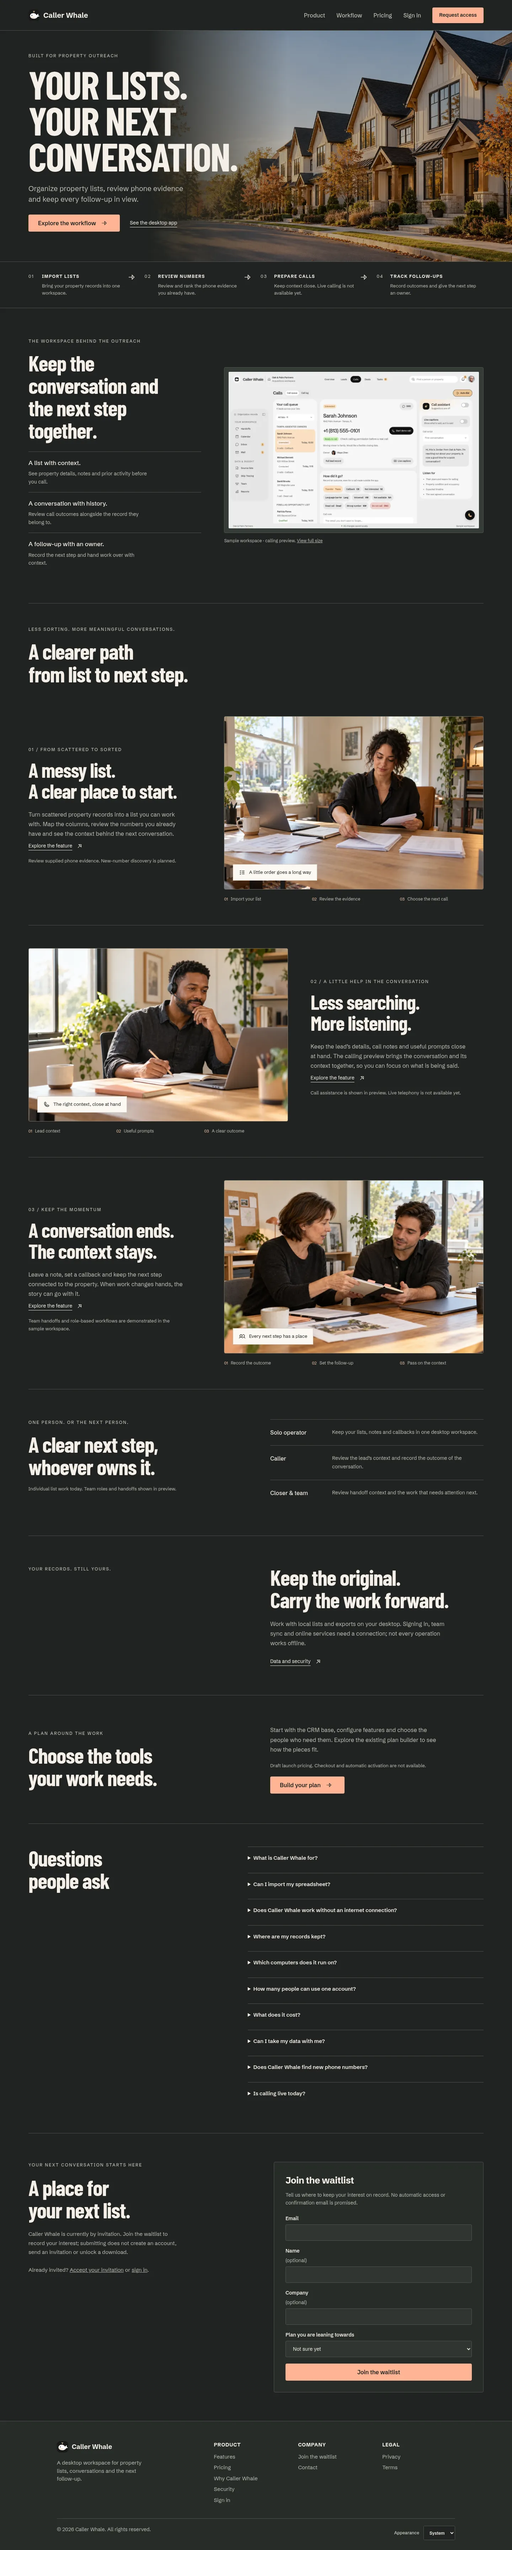
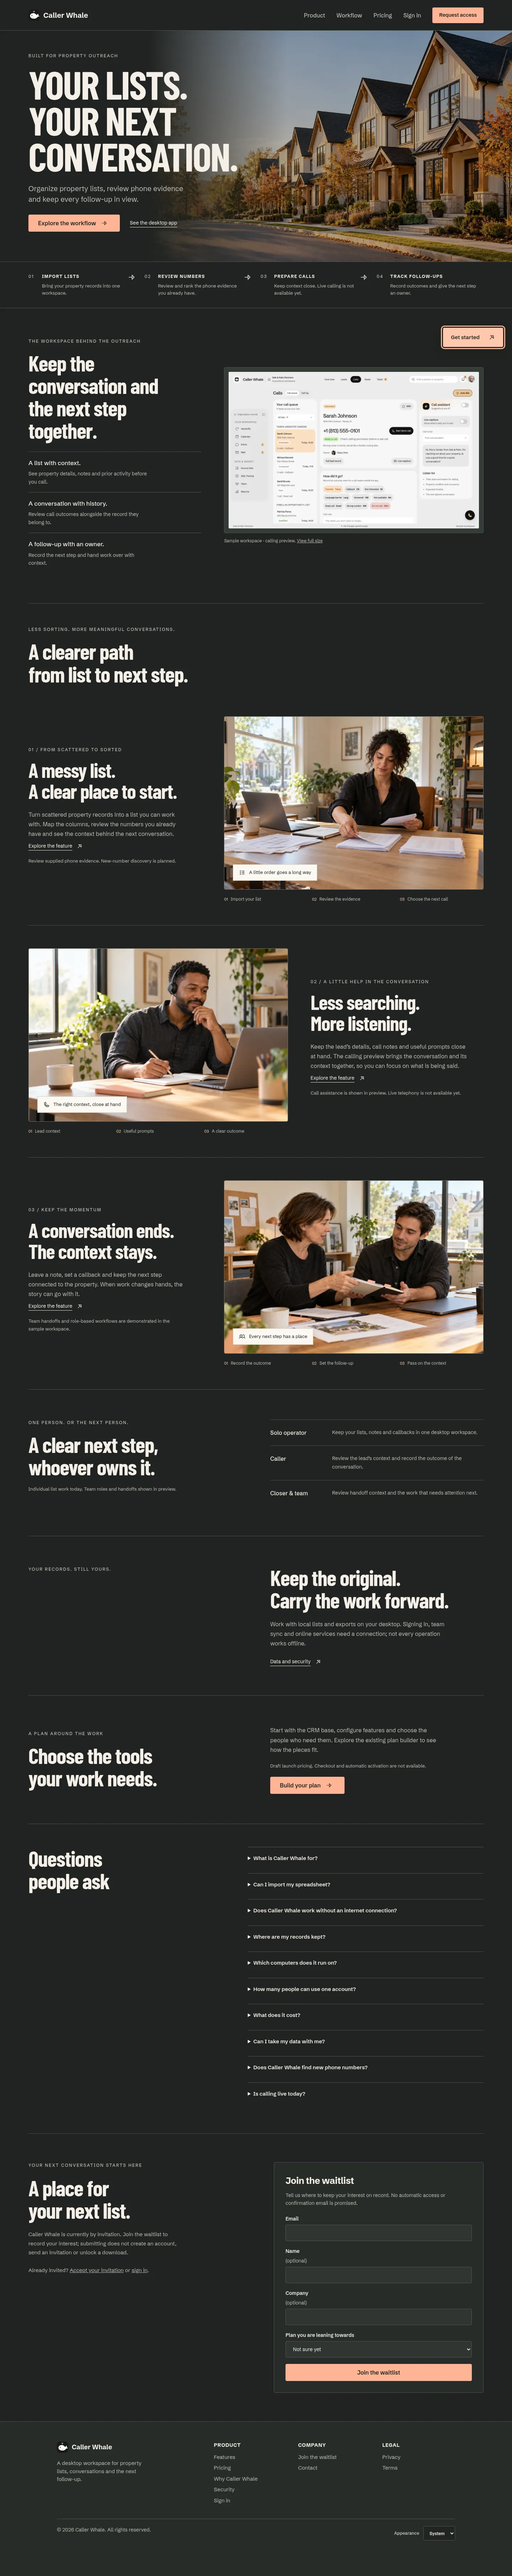
Add persistent get-started account and download entry

diff --git a/Caller Whale CRM/landing/web/src/components.jsx b/Caller Whale CRM/landing/web/src/components.jsx
@@ -84,7 +84,7 @@ export function Shot({ file, alt, eager, tilt }) {
 }
 
 /**
- * The site's header. Signed out: Sign in and Sign up. Signed in: Dashboard for people Caller Whale invited, Admin for its staff,
+ * The site's header. Signed out: Sign in and Request access. Signed in: Dashboard for authorized accounts,
  * and Sign out. What a person may open is the server's decision (/account); the header only shows it.
  */
 export function Header({ route }) {
@@ -190,6 +190,55 @@ export function Header({ route }) {
       </nav>
     </header>
   );
+}
+
+/** Persistent marketing entry point; entitlement is still enforced by the server. */
+export function GetStarted({ route }) {
+  const dialog = useRef(null);
+  const trigger = useRef(null);
+  const session = useSession();
+  const signedIn = session.status === "signed_in";
+  useEffect(() => { dialog.current?.close(); }, [route]);
+  const previousOverflow = useRef(null);
+  const restoreScroll = () => {
+    if (previousOverflow.current !== null) {
+      document.body.style.overflow = previousOverflow.current;
+      previousOverflow.current = null;
+    }
+  };
+  useEffect(() => () => restoreScroll(), []);
+  const open = () => {
+    previousOverflow.current = document.body.style.overflow;
+    document.body.style.overflow = "hidden";
+    dialog.current.showModal();
+  };
+  const close = () => dialog.current.close();
+  const containTab = event => {
+    if (event.key !== "Tab") return;
+    const items = dialog.current.querySelectorAll('button:not([disabled]), a[href]');
+    const first = items[0];
+    const last = items[items.length - 1];
+    if (event.shiftKey && document.activeElement === first) { event.preventDefault(); last.focus(); }
+    else if (!event.shiftKey && document.activeElement === last) { event.preventDefault(); first.focus(); }
+  };
+  const downloadPath = signedIn ? "/dashboard#desktop-download" : "/signin?next=%2Fdashboard";
+  return <>
+    <button ref={trigger} type="button" className="get-started-float" onClick={open} aria-haspopup="dialog" aria-controls="get-started-dialog">Get started <Icon name="ArrowUpRight" size={20} /></button>
+    <dialog ref={dialog} id="get-started-dialog" className="entry-dialog" onKeyDown={containTab} onClose={() => { restoreScroll(); trigger.current?.focus(); }} aria-labelledby="entry-title" aria-describedby="entry-description" onClick={event => { if (event.target === event.currentTarget) close(); }}>
+      <div className="entry-content">
+        <button type="button" className="entry-close" onClick={close} aria-label="Close get started">Close</button>
+        <p className="studio-label">Your Caller Whale workspace</p>
+        <h2 id="entry-title">Your next step<br />starts here.</h2>
+        <p id="entry-description">Open your web dashboard or get the desktop app. Caller Whale is currently by invitation.</p>
+        <div className="entry-options">
+          <a className="entry-option" href={signedIn ? "/dashboard" : "/signin?next=%2Fdashboard"} onClick={close}><Icon name="Kanban" size={24} /><span><strong>{signedIn ? "Open web dashboard" : "Sign in"}</strong><span>{signedIn ? "Continue to your account and workspace." : "Already have an account? Continue to your dashboard."}</span></span><Icon name="ArrowRight" size={20} /></a>
+          {!signedIn && <a className="entry-option" href="/signup" onClick={close}><Icon name="Users" size={24} /><span><strong>Sign up</strong><span>Create your account with the email you were invited with.</span></span><Icon name="ArrowRight" size={20} /></a>}
+          <a className="entry-option" href={downloadPath} onClick={close}><Icon name="DeviceMobile" size={24} /><span><strong>Get the desktop app</strong><span>{signedIn ? "Find the Windows download in your dashboard." : "Sign in first. Invited accounts can download from their dashboard."}</span></span><Icon name="ArrowRight" size={20} /></a>
+        </div>
+        <p className="entry-waitlist">No invitation yet? <a href="/#request-access" onClick={close}>Join the waitlist</a>.</p>
+      </div>
+    </dialog>
+  </>;
 }
 
 export function Footer() {

diff --git a/Caller Whale CRM/landing/web/src/studio.css b/Caller Whale CRM/landing/web/src/studio.css
@@ -800,3 +800,20 @@ body {
     max-width: calc(100% - 24px);
   }
 }
+.get-started-float { position: fixed; bottom: max(24px, env(safe-area-inset-bottom)); right: max(24px, env(safe-area-inset-right)); z-index: 8; display: inline-flex; align-items: center; gap: 24px; min-height: 56px; padding: 16px 22px; border: 1px solid #202321; border-radius: 5px; background: var(--accent); color: #202321; box-shadow: 0 8px 28px #0002; font: inherit; font-size: 15px; font-weight: 600; cursor: pointer; }
+.get-started-float:hover { background: #ffc8ae; }
+.entry-dialog { width: min(560px, calc(100vw - 32px)); max-height: calc(100dvh - 32px); overflow: auto; padding: 0; border: 1px solid var(--line); border-radius: 8px; background: var(--page); color: var(--ink); box-shadow: 0 24px 100px #0004; }
+.entry-dialog::backdrop { background: #151815a6; }
+.entry-content { position: relative; padding: 40px; }
+.entry-close { display: block; margin-left: auto; margin-bottom: 24px; min-height: 40px; padding: 8px 12px; border: 1px solid var(--line); border-radius: 4px; background: transparent; color: var(--ink); font: inherit; font-size: 13px; cursor: pointer; }
+.entry-content h2 { font: 700 54px/1.02 "Barlow Condensed", sans-serif; letter-spacing: -.02em; margin: 18px 0; }
+.entry-content > p:not(.studio-label) { color: var(--muted); font-size: 14px; line-height: 1.7; }
+.entry-options { margin: 28px 0 20px; border-top: 1px solid var(--line); }
+.entry-option { display: grid; grid-template-columns: 24px 1fr 20px; gap: 16px; align-items: center; padding: 20px 0; border-bottom: 1px solid var(--line); text-decoration: none; }
+.entry-option:hover { background: var(--card); }
+.entry-option strong { display: block; font-size: 16px; font-weight: 600; margin-bottom: 5px; }
+.entry-option span span { display: block; color: var(--muted); font-size: 13px; line-height: 1.6; }
+.entry-waitlist a { text-underline-offset: 4px; }
+.foot { padding-bottom: 100px; }
+#desktop-download { scroll-margin-top: 110px; }
+@media(max-width:600px) { .get-started-float { bottom: max(16px, env(safe-area-inset-bottom)); right: 16px; min-height: 50px; padding: 12px 18px; gap: 16px; }.entry-content { padding: 24px; }.entry-content h2 { font-size: 46px; }.entry-option { gap: 12px; }.entry-close { margin-bottom: 20px; } }

diff --git a/Caller Whale CRM/landing/web/src/AccountPages.jsx b/Caller Whale CRM/landing/web/src/AccountPages.jsx
@@ -421,7 +421,7 @@ export function Dashboard() {
               <AdminMode account={account} signOut={session.signOut} />
               <Security />
               <div className="panel">
-                <h2>Desktop app</h2>
+                <h2 id="desktop-download">Desktop app</h2>
                 <DownloadButton release={account.release} />
               </div>
             </Shell>
@@ -470,7 +470,7 @@ export function Dashboard() {
             </div>
             <div className="split">
               <div className="panel">
-                <h2><DownloadSimple size={22} weight="duotone" aria-hidden="true" /> The desktop app</h2>
+                <h2 id="desktop-download"><DownloadSimple size={22} weight="duotone" aria-hidden="true" /> The desktop app</h2>
                 <DownloadButton release={account.release} />
               </div>
               <div className="panel">

diff --git a/Caller Whale CRM/landing/web/src/App.jsx b/Caller Whale CRM/landing/web/src/App.jsx
@@ -1,6 +1,6 @@
 import { useCallback, useEffect, useState } from "react";
 import { accountPages, pageMeta } from "./content.js";
-import { Footer, Header, InviteOnly, Waitlist } from "./components.jsx";
+import { Footer, GetStarted, Header, InviteOnly, Waitlist } from "./components.jsx";
 import { Compare, Contact, Features, Home, Legal, NotFound, Pricing, Security, legalPages } from "./pages.jsx";
 import { Dashboard, SignIn, SignUp, VerifyEmail } from "./AccountPages.jsx";
 import { SessionProvider } from "./session.jsx";
@@ -90,6 +90,7 @@ export function App({ path = typeof window === "undefined" ? "/" : window.locati
         {marketing && <Waitlist tier={choice.tier} plan={choice.plan} setTier={onPick} />}
       </main>
       <Footer />
+      {marketing && <GetStarted route={page} />}
     </SessionProvider>
   );
 }

diff --git a/Caller Whale CRM/landing/web/design-qa.md b/Caller Whale CRM/landing/web/design-qa.md
@@ -52,3 +52,9 @@ Build and pricing tests passed. Browser checks decoded all three illustration as
 Owner selected natural human problem-solving moments over 3D illustrations. Replaced all three benefit illustrations with generated editorial photographs of organizing records, listening on a supported call, and passing context to a colleague. Preserved the hero architecture, layout, HTML captions, preview boundaries and single actual app screenshot. Removed superseded 3D assets from the public build.
 
 Reviewed the generated people scenes and refreshed desktop/mobile review captures. Faces and work gestures remain visible; badges sit over the quiet lower portions of photos. Client/SSR build, all 13 prerendered outputs and existing pricing test passed. Chromium checks passed at 360/390/768/1024/1440px in both themes: three decoded photos, one actual app image, working feature destinations, no page overflow or runtime exceptions. Final result remains passed for this local homepage scope; no deployment or authenticated-service verification is implied.
+
+## Persistent entry point
+
+Added a fixed Get started button to public marketing pages and a native modal chooser for Sign in, invitation-based Sign up, and Get the desktop app. Signed-in visitors get Open web dashboard; app download links lead to the existing authorized dashboard, with an anchor on its download heading. No public binary link or authorization bypass was introduced. A waitlist link remains available without an invitation. The footer reserves space for the floating control.
+
+Build/pricing tests passed. Desktop (1440px) and phone (390px), each light/dark: verified viewport-fixed visibility after scrolling, dialog opening, keyboard focus containment, Escape dismissal with trigger focus restoration, body scroll restoration, waitlist navigation, signup navigation, and correct signin/download destinations. The floating control is omitted from account pages. Captures retained as `qa/get-started-*.webp`; full homepage captures refreshed. Actual authentication and download issuance still depend on the existing backend and were not tested live.

diff --git a/Caller Whale CRM/landing/web/AGENTS.md b/Caller Whale CRM/landing/web/AGENTS.md
@@ -3,3 +3,5 @@
 The homepage should show the app only once or twice at most. Keep one main product screenshot by default; use the remaining sections for the business story rather than repeating app captures or copying the desktop UI.
 
 Use custom visual storytelling for the benefits, not text-only replacement sections: natural, candid human photography should show an operator organizing records, a caller with useful context, and colleagues handing off the next step. Keep houses mainly in the hero; avoid miniature houses, 3D models and abstract sculptural scenes in the benefit sections. Keep these marketing concepts distinct from actual app screenshots and be honest about preview-only capabilities.
+
+Keep a persistent Get started entry point on public marketing pages, offering sign in, invitation-based sign up, the web dashboard, and the desktop download through the existing authorized account flow.
